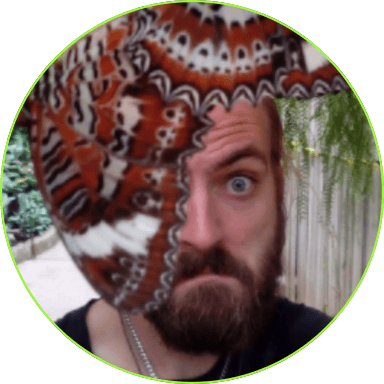
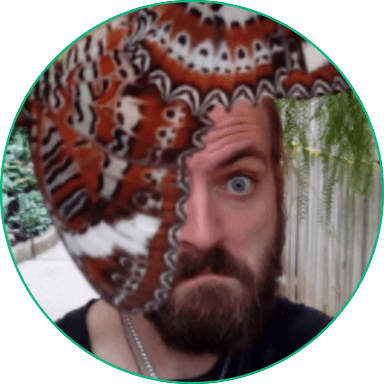
Correct border around image and some theme colors.

diff --git a/nuxt.config.js b/nuxt.config.js
@@ -14,7 +14,8 @@ module.exports = {
     display: 'standalone',
     description: 'Christer Olsen is a freelance web developer from Norway.',
     orientation: 'any',
-    theme_color: '#fff'
+    theme_color: '#00bd7f',
+    background_color: '#363636'
   },
   modules: [
     '@nuxtjs/pwa',
@@ -26,10 +27,7 @@ module.exports = {
         'postcss-custom-properties': false
       }
     },
-    extractCSS: true,
-    vendor: [
-      'whatwg-fetch'
-    ]
+    extractCSS: true
   },
   plugins: [
     './plugins/components'
@@ -46,7 +44,7 @@ module.exports = {
     meta: [
       { name: 'title', content: 'Christer Olsen: Web Developer' },
       { name: 'description', content: 'Christer Olsen is a freelance web developer from Norway.' },
-      { name: 'theme-color', content: '#fff' },
+      { name: 'theme-color', content: '#00bd7f' },
       { property: 'og:title', content: 'Christer Olsen: Web Developer' },
       { property: 'og:description', content: 'Christer Olsen is a freelance web developer from Norway.' },
       { property: 'og:type', content: 'website' },
